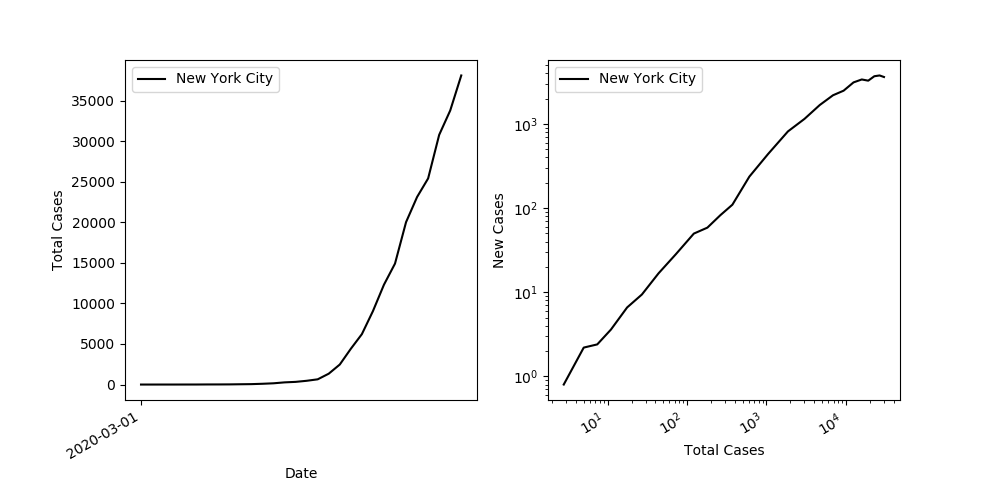
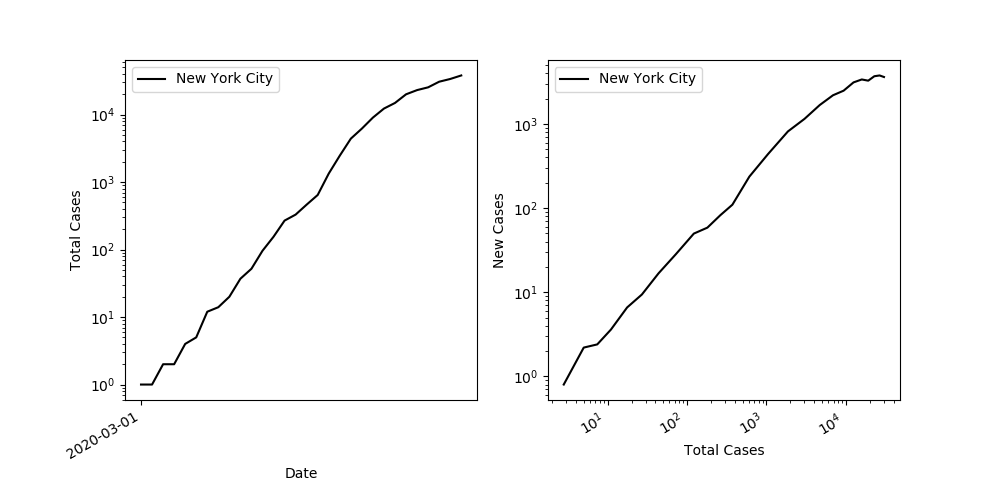
Split out images for each region

diff --git a/county_watch.py b/county_watch.py
@@ -37,7 +37,7 @@ def plot_time_series(filename, counties):
         dates = county.data['date']
         xaxis = \
             [datetime.datetime.strptime(d, "%Y-%m-%d").date() for d in dates]
-        ax[0].plot(xaxis, county.data['cases'], county.style, 
+        ax[0].semilogy(xaxis, county.data['cases'], county.style,
                    label=county.county)
         ax[1].loglog(county.data['roll_cases'], county.data['roll_new_cases'],
                 county.style, label=county.county)
@@ -62,17 +62,22 @@ def main():
     wash = County('Washtenaw', 'Michigan', 'b-')
     wayne = County('Wayne', 'Michigan', 'b--')
     kzoo = County('Kalamazoo', 'Michigan', 'm-')
+    plot_time_series('Images/covid_michigan.png', [kent, wash, wayne])
+
     sch = County('Schenectady', 'New York', 'k-')
     alb = County('Albany', 'New York', 'k--')
+    plot_time_series('Images/covid_newyork.png', [sch, alb])
+
+    cath = County('Chatham', 'Georgia', 'g-')
+    plot_time_series('Images/covid_georgia.png', [cath])
+
     ess = County('Essex', 'Massachusetts', 'c-')
     bost = County('Suffolk', 'Massachusetts', 'c--')
-    cath = County('Chatham', 'Georgia', 'g-')
-    plot_time_series('covid_family.png', [kent, wash, wayne, sch, alb, ess,
-        bost, cath, kzoo])
+    plot_time_series('Images/covid_mass.png', [ess, bost])
 
     # Plot for New York.
     ny = County('New York City', 'New York', 'k')
-    plot_time_series('covid_ny.png', [ny])
+    plot_time_series('Images/covid_ny.png', [ny])
 
 
 if __name__ == '__main__':

diff --git a/README.md b/README.md
@@ -1,3 +1,14 @@
-# Test markdown readme file
+# New York City
+![](Images/covid_ny.png)
 
-![Test](Images/covid_family.png)
+# Michigan
+![](Images/covid_michigan.png)
+
+# New York State
+![](Images/covid_newyork.png)
+
+# Georgia
+![](Images/covid_georgia.png)
+
+# Massachusetts
+![](Images/covid_mass.png)
